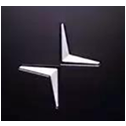
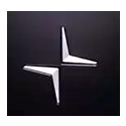
更换图片

diff --git a/culture.html b/culture.html
@@ -56,12 +56,19 @@
 	font-weight: 600;
 }
 .section2 .cont2{
-	font-size: 22px;
-	margin-top: 5px;
+	font-size: 20px;
+	margin-top: 15px;
+	text-align: center;
 }
 .section2 .content1,
 .section2 .content2{
 	width: 50%;
+}
+.section2 .content1>div{
+	left: 25%;
+}
+.section2 .content2>div{
+	right: 25%;
 }
 .section2 .content2 {
 	text-align: right;
@@ -172,10 +179,10 @@
 	width: 100%;
 }
 .section4 .item2 .cont2{
-	width: 55%;
+	width: 54%;
 	height: 100%;
     position: absolute;
-    left: 44.5%;
+    left: 44%;
     top: 0;
 	font-size: 14px;
 	transition: 1s ease-in-out;
@@ -357,7 +364,7 @@
 		<div class="row clearfix">
 			<div class="content content1">
 				<img src="images/culture/2-1.jpg">
-				<div class="my-all-center">
+				<div class="my-column-center">
 					<div class="wow fadeInRight">
 						<span class="cont1 font1"><font>幸福家文化</font></span>
 						<div class="cont2">土壤</div>
@@ -366,7 +373,7 @@
 			</div>
 			<div class="content content2">
 				<img src="images/culture/2-2.jpg">
-				<div class="my-all-center" style="margin-left: 30px">
+				<div class="my-column-center" style="margin-left: 30px">
 					<div class=" wow fadeInRight ani-time3">
 						<span class="cont1">同创共享的<font class="font1">奋斗者文化</font></span>
 						<div class="cont2">根基</div>
@@ -484,15 +491,16 @@
 					<img class="bg-img" src="images/culture/4-3.jpg">
 					<div class="animated-text cont2 text-box animated wow fadeInRight">
 						<div>
-							<div>《文化的力量》献给亲爱的伙伴，学习传承，奔向未来；</div>
-							<div>《文化的力量》献给出色的同行，交流分享，一路向前；</div>
-							<div>《文化的力量》献给尊敬的朋友，投砾引珠，广征博引；</div>
-							<div>《文化的力量》献给我们的下一代，回馈社会，助力公益。</div>
-							<div style="margin-top: 10px">此书由重庆延锋安道拓公司所有同仁，用血浓于水的感情共同写就。
-								这是一个企业对自己的锤炼，更是一群骨子里永远都热血的人，
-								为共同走过的时光、彼此见证的过往，亲手打造的一份弥足珍贵的成长纪念。
-								第一版印刷的4000册将进行爱心认购，所得款项全部进入蓝天基金。
-								用来支持环境的可持续发展，社会服务，教育事业等公益之举！
+							<div>《文化的力量》献给亲爱的伙伴,学习传承,奔向未来;</div>
+							<div>《文化的力量》献给出色的同行,交流分享,一路向前;</div>
+							<div>《文化的力量》献给尊敬的朋友,投砾引珠,广征博引;</div>
+							<div>《文化的力量》献给我们的下一代,回馈社会,助力公益。</div>
+							<div style="margin-top: 15px;text-indent: 2em;padding-left: 5px;
+							text-align: justify;">此书由重庆延锋安道拓公司所有同仁,用血浓于水的感情共同写就。
+								这是一个企业对自己的锤炼,更是一群骨子里永远都热血的人,
+								为共同走过的时光、彼此见证的过往,亲手打造的一份弥足珍贵的成长纪念。
+								第一版印刷的4000册将进行爱心认购,所得款项全部进入蓝天基金。
+								用来支持环境的可持续发展,社会服务,教育事业等公益之举!
 							</div> 
 						</div>
 					</div>

diff --git a/index.html b/index.html
@@ -199,24 +199,24 @@
 				<div id="first-slide-swiper" class="swiper-container">
 					<div class="swiper-wrapper">
 						<div class="swiper-slide">
-							<img class="slide-bg" src="images/main-slider/image-1.jpg">
-							<div class="content-box animated" data-my-animate="fadeInLeft">
-								<div class="content text-center">
-									<h2 class="my-color2"><div>提升<strong>机动化世界</strong></span></div><font>的体验</font></h2>
-								</div>
-							</div>
+							<img class="slide-bg" src="images/index/image-1.jpg">
 						</div>
-						<!-- <div class="swiper-slide">
-							<img class="slide-bg" src="images/main-slider/image-1.jpg">
-							<div class="content-box">
-								<div class="content text-center">
-									<h2><div class="my-color2">提升机动化世界</div><font>的体验</font></h2>
-								</div>
-								<a href="news.html" class="my-color1"><div class="my-row-center news-center">新闻中心</div></a>
-							</div>
-						</div> -->
+						<div class="swiper-slide">
+							<img class="slide-bg" src="images/index/image-2.jpg">
+						</div>
+						<div class="swiper-slide">
+							<img class="slide-bg" src="images/index/image-3.jpg">
+						</div>
+						<div class="swiper-slide">
+							<img class="slide-bg" src="images/index/image-4.jpg">
+						</div>
 					</div>
 				</div>
+				<div class="content-box animated" data-my-animate="fadeInLeft" style="z-index:1">
+						<div class="content text-center">
+							<h2 class="my-color2"><div>提升<strong>机动化世界</strong></span></div><font>的体验</font></h2>
+						</div>
+					</div>
 			</div>
 			<!--第2屏-->
 			<div class="swiper-slide slide2">

diff --git a/my-js/index.js b/my-js/index.js
@@ -1,13 +1,13 @@
 var mySwiper;
 $(function() {
     //第一个swiper
-    // var slideSwiper = new Swiper('#first-slide-swiper', {
-	// 	loop: true,
-	// 	speed: 800,
-	// 	autoplay : 3000
-	// 	// pagination: '#slide-swiper',
-	// 	// paginationClickable: true
-	// });
+    var slideSwiper = new Swiper('#first-slide-swiper', {
+		loop: true,
+		speed: 800,
+		autoplay : 3000
+		// pagination: '#slide-swiper',
+		// paginationClickable: true
+	});
     var allSwiperCount = 8;//swiper总个数
     var preTranslateValue = -1;
 	var translateFlag = false;

diff --git a/common/header.html b/common/header.html
@@ -151,10 +151,10 @@
 										<li><a href="about.html?item=5">合作伙伴</a></li>
 									</ul>
 								</li>
-								<li class="language-box">
+								<!-- <li class="language-box">
 									<span class="language active" type="ch">中</span>
 									<span class="language" type="en">EN</span>
-								</li>
+								</li> -->
 						</ul>
 					</div>
 				</nav><!-- Main Menu End-->

diff --git a/my-js/profession.js b/my-js/profession.js
@@ -6,7 +6,7 @@ $(function() {
     goDesignatedLocation();
     animate1();
     animate2();
-    animate3();
+    // animate3();
 })
 //鼠标放上，显示其它颜色图标
 function animate1(){

diff --git a/profession.html b/profession.html
@@ -382,7 +382,7 @@
     font-size: 18px;
     height: 50px;
     line-height: 50px;
-	display: none;
+	/* display: none; */
 }
 
 </style>
